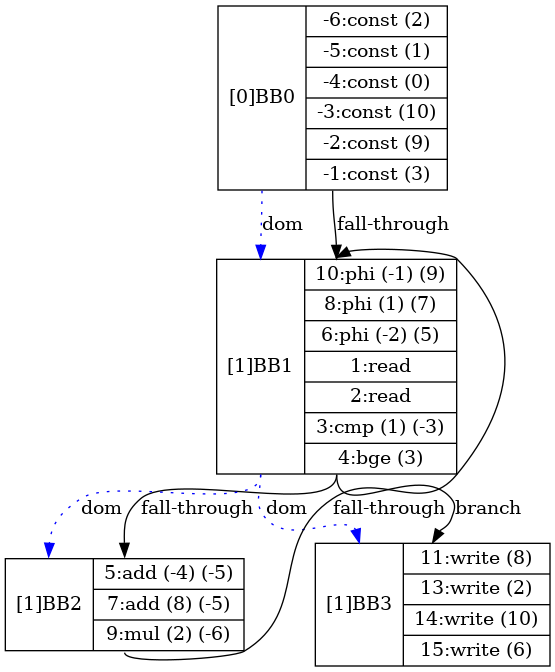
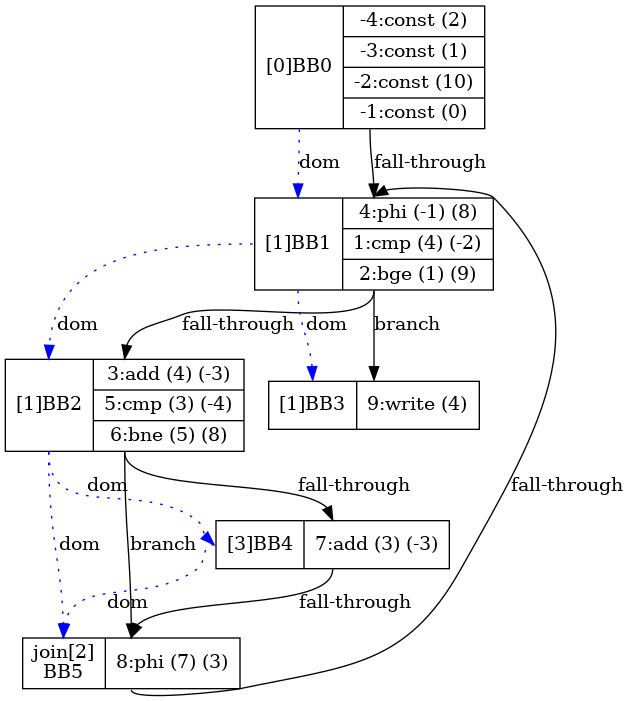
continued testing [while_if1.ty]; man i am slow

Changed region(s): [[0.0, 0.0, 1.0, 1.0], [0.0919, 0.4375, 0.1532, 0.4688]]

diff --git a/src/Parser.cpp b/src/Parser.cpp
@@ -538,20 +538,54 @@ SSA* Parser::p2_assignment() {
             #ifdef DEBUG
                 std::cout << "child blk == nullptr!" << std::endl;
             #endif
-            this->currBB->child = new BasicBlock(this->currBB->varVals, false, this->currBB->blkType, false);
-            this->currBB->child->parent = this->currBB;
-
-            if (this->currBB->child2) {
-                #ifdef DEBUG
-                    std::cout << "child2 blk == " << this->currBB->child2->toString() << std::endl;
-                #endif
-                this->currBB->child->child2 = this->currBB->child2;
-                if (this->currBB->child->child2->parent->blockNum == this->currBB->blockNum) {
-                    this->currBB->child->child2->parent = this->currBB->child;
+            if (this->currBB->child2 && this->currBB->child2->blkType == 2) {
+                if (this->currBB->child2->child == nullptr) {
+                    this->currBB->child2->child = new BasicBlock(this->currBB->varVals, false, this->currBB->blkType, false);
+                    this->currBB->child2->child->parent = this->currBB->child2;
+                    this->currBB->child2->child->child2 = this->currBB->child2->child2;
                 } else {
-                    this->currBB->child->child2->parent2 = this->currBB->child;
+                    BasicBlock *tmp = this->currBB;
+                    this->currBB = this->currBB->child2;
+                    #ifdef DEBUG
+                        std::cout << "child blk == " << this->currBB->child->toString() << std::endl;
+                    #endif
+                    BasicBlock *oldChild = this->currBB->child;
+
+                    this->currBB->child = new BasicBlock(this->currBB->varVals, false, this->currBB->blkType, false);
+                    this->currBB->child->parent = this->currBB;
+                    this->currBB->child->child = oldChild;
+
+                    if (oldChild->parent->blockNum == this->currBB->blockNum) {
+                        oldChild->parent = this->currBB->child;
+                    } else {
+                        oldChild->parent2 = this->currBB->child;
+                    }
+
+                    this->currBB = tmp;
+                    
+                    // // [12.30.2024]: tf does this do ??? copied from below
+                    // if (this->currBB->child->child2->parent->blockNum == this->currBB->blockNum) {
+                    //     this->currBB->child->child2->parent = this->currBB->child;
+                    // } else {
+                    //     this->currBB->child->child2->parent2 = this->currBB->child;
+                    // }
                 }
-                this->currBB->child2 = nullptr;
+            } else {
+                this->currBB->child = new BasicBlock(this->currBB->varVals, false, this->currBB->blkType, false);
+                this->currBB->child->parent = this->currBB;
+
+                if (this->currBB->child2) {
+                    #ifdef DEBUG
+                        std::cout << "child2 blk == " << this->currBB->child2->toString() << std::endl;
+                    #endif
+                    this->currBB->child->child2 = this->currBB->child2;
+                    if (this->currBB->child->child2->parent->blockNum == this->currBB->blockNum) {
+                        this->currBB->child->child2->parent = this->currBB->child;
+                    } else {
+                        this->currBB->child->child2->parent2 = this->currBB->child;
+                    }
+                    this->currBB->child2 = nullptr;
+                }
             }
         } else if (this->currBB->child) {
             #ifdef DEBUG
@@ -672,6 +706,8 @@ SSA* Parser::p2_assignment() {
     }
 
     this->blksSeen.clear(); // [12.11.2024]: FOR [this->currBBinLoop()] (recursive) 所以我们要先空着
+    bool propagated = false;
+
     // [12.06.2024]: new beginnings (cont.); maybe overwrite is the last detail after we figureout/decide where specifically we are (i.e. blkType 0, 1, 2, 3)
     if (this->currBBinLoop()) { // if [this->currBB] is in a loop
         #ifdef DEBUG
@@ -698,6 +734,7 @@ SSA* Parser::p2_assignment() {
                 oldVal = BasicBlock::ssa_table.at(tmp->parent->varVals.at(ident));
             }
             this->conditionalStmtPhiUpdate(vars, oldVal);
+            propagated = true;
 
             this->currBB = tmp;
         } else if (this->currBB->blkType == 1) { // std-blk type
@@ -717,6 +754,7 @@ SSA* Parser::p2_assignment() {
             }
         #endif
         BasicBlock *tmp = this->currBB;
+        SSA *prevOldVal = oldVal;
         this->currBB = loopHead;
 
         if (this->currBB->varVals.find(ident) != this->currBB->varVals.end()) {
@@ -742,6 +780,20 @@ SSA* Parser::p2_assignment() {
             #endif
             // BasicBlock::ssa_table.at(this->currBB->varVals.at(ident))->set_operand2(value);
             oldVal = BasicBlock::ssa_table.at(this->currBB->varVals.at(ident));
+
+            // if (oldVal->get_operand1()->compare(prevOldVal)) {
+            //     #ifdef DEBUG
+            //         std::cout << "phi's operand1 == prevOldVal!" << std::endl;
+            //     #endif
+            // } else if (oldVal->get_operand2()->compare(prevOldVal)) {
+            //     #ifdef DEBUG
+            //         std::cout << "phi's operand2 == prevOldVal!" << std::endl;
+            //     #endif
+            // }
+
+            if (!propagated) {
+                this->propagateDown(this->currBB, ident, oldVal, table_int, true);
+            }
         } else {
             SSA *phi = this->addSSA1(6, oldVal, value);
             int phi_table_int = this->add_SSA_table(phi);            
@@ -1419,8 +1471,12 @@ SSA* Parser::p2_whileStatement() {
     // [09/20/2024]: Do this before we return. so that the next SSA instr added will be the new jump from [unsuccessful relation: while-loop]
     this->prevJump = true;
     this->prevInstrs.push(jmp_instr);
+    #ifdef DEBUG
+        std::cout << "pushed jmp instr: " << jmp_instr->toString() << std::endl;
+    #endif
     
     // [10.22.2024]: Somehow after [p2_statSeq()], this->currBB gets changed? So we just reset it here...is this ok/right/valid???
+    // afterWhile_blk->varVals = this->currBB->varVals; // [12.30.2024]: update varVals here???
     this->currBB = afterWhile_blk;
     // this->currBB = this->currBB->child2; // [10.21.2024]: Same as above
 

diff --git a/src/Parser.hpp b/src/Parser.hpp
@@ -339,7 +339,7 @@ public:
         }
 
         SSA *res = nullptr;
-        if (opNo == 6) {
+        if ((s->get_operator() == 6) || ((s->get_operator() >= 8) && (s->get_operator() <= 14))) {
             res = s;
         } else {
             res = new SSA (*s);
@@ -503,7 +503,9 @@ public:
                     //     std::cout << "instr(" << instr->toString() << ") exists already: " << tmp->toString() << std::endl;
                     // #endif
                     // [10.23.2024]: CAN WE DO THIS???
-                    delete instr;
+                    if (tmp->compare(instr) == false) {
+                        delete instr;
+                    }
                     instr = tmp;
 
                     // #ifdef DEBUG
@@ -578,6 +580,10 @@ public:
     // [10/09/2024]: ToDo - should check if [SSA] already exists in [this->BasicBlock::ssa_table] 
     // - specifically for [this->VVs]
     inline int add_SSA_table(SSA *toAdd) {
+        if (BasicBlock::ssa_table_reversed.find(toAdd) != BasicBlock::ssa_table_reversed.end()) {
+            return BasicBlock::ssa_table_reversed.at(toAdd);
+        }
+
         BasicBlock::ssa_table.insert(std::pair<int, SSA *>(BasicBlock::ssa_table.size(), toAdd));
         BasicBlock::ssa_table_reversed.insert(std::pair<SSA *, int>(toAdd, BasicBlock::ssa_table.size() - 1));
 

diff --git a/main.cpp b/main.cpp
@@ -24,7 +24,7 @@
 // std::string f_name = file_name;
 // std::string f_full = f_name + f_ext;
 // std::string in_f = "tst/" + f_name + f_ext;
-#define in_f "tst/simple_while.ty"
+#define in_f "tst/while_if1.ty"
 
 // [10.23.2024]: Silly rabbit
 
